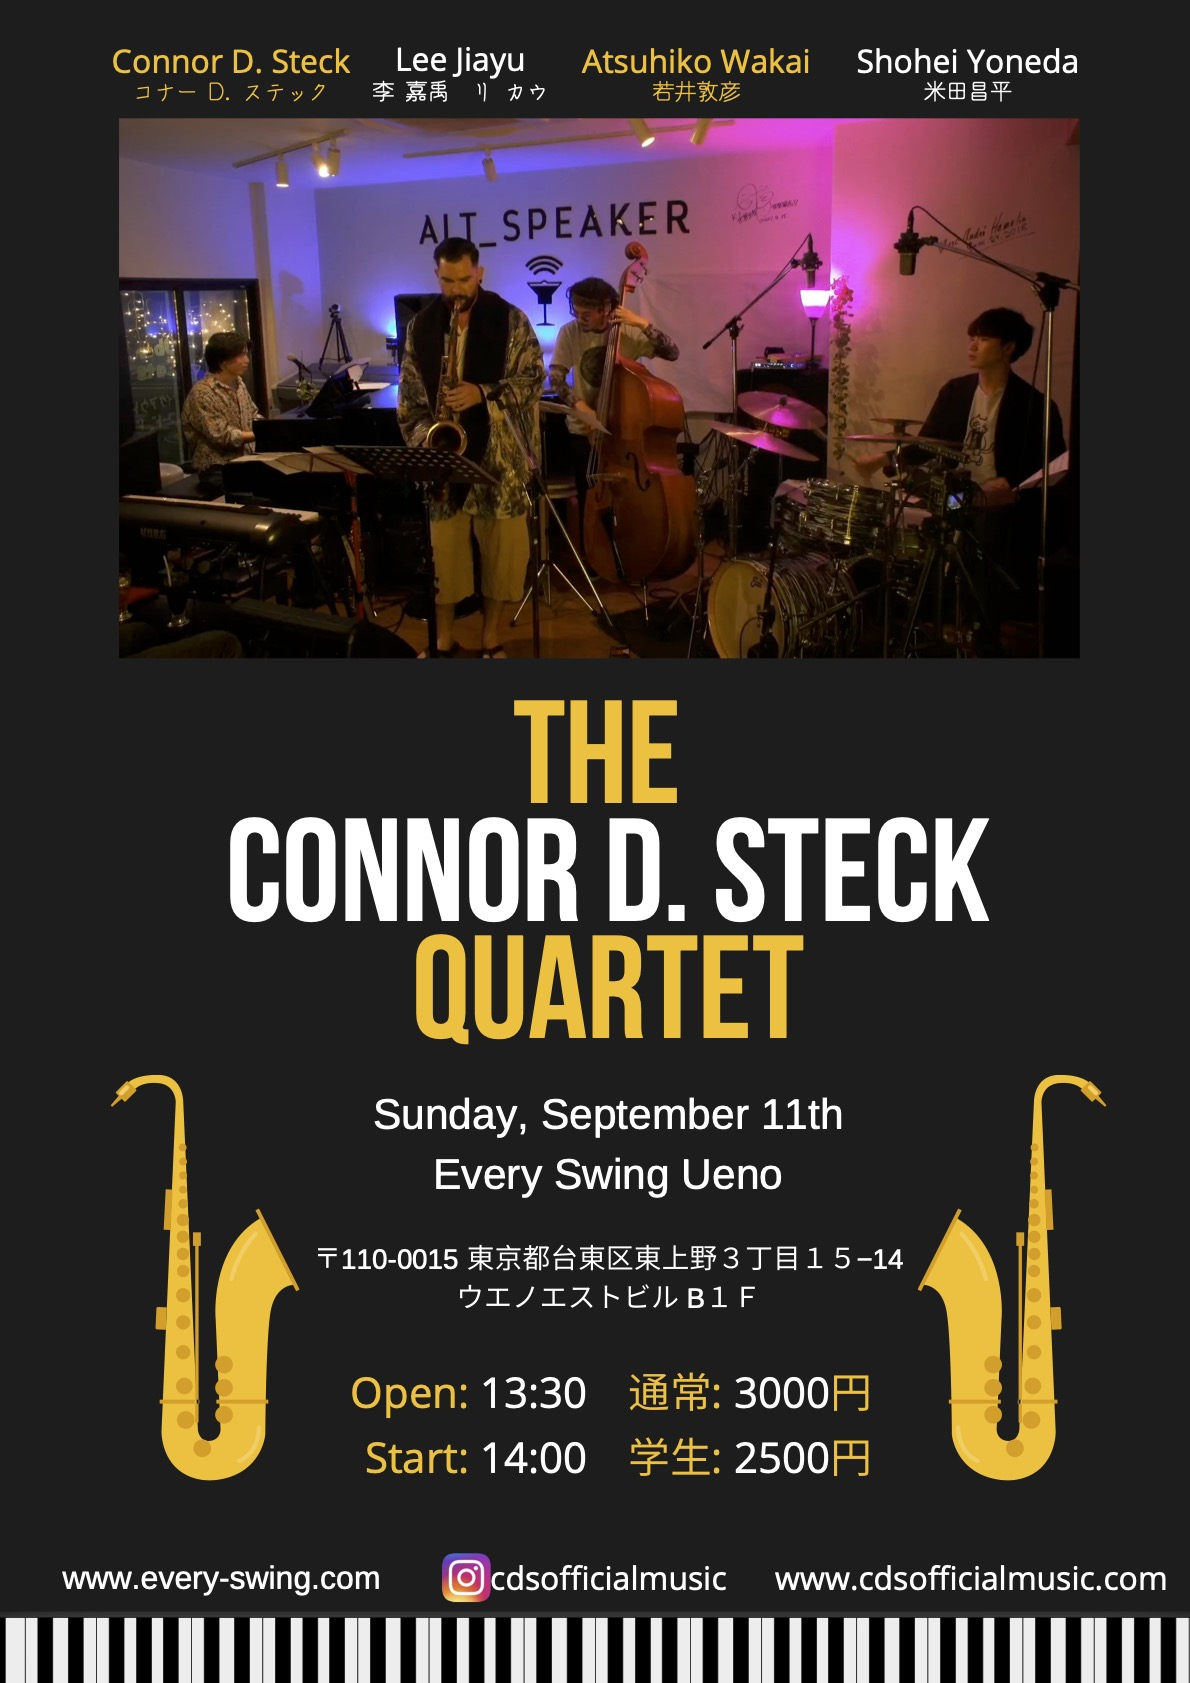
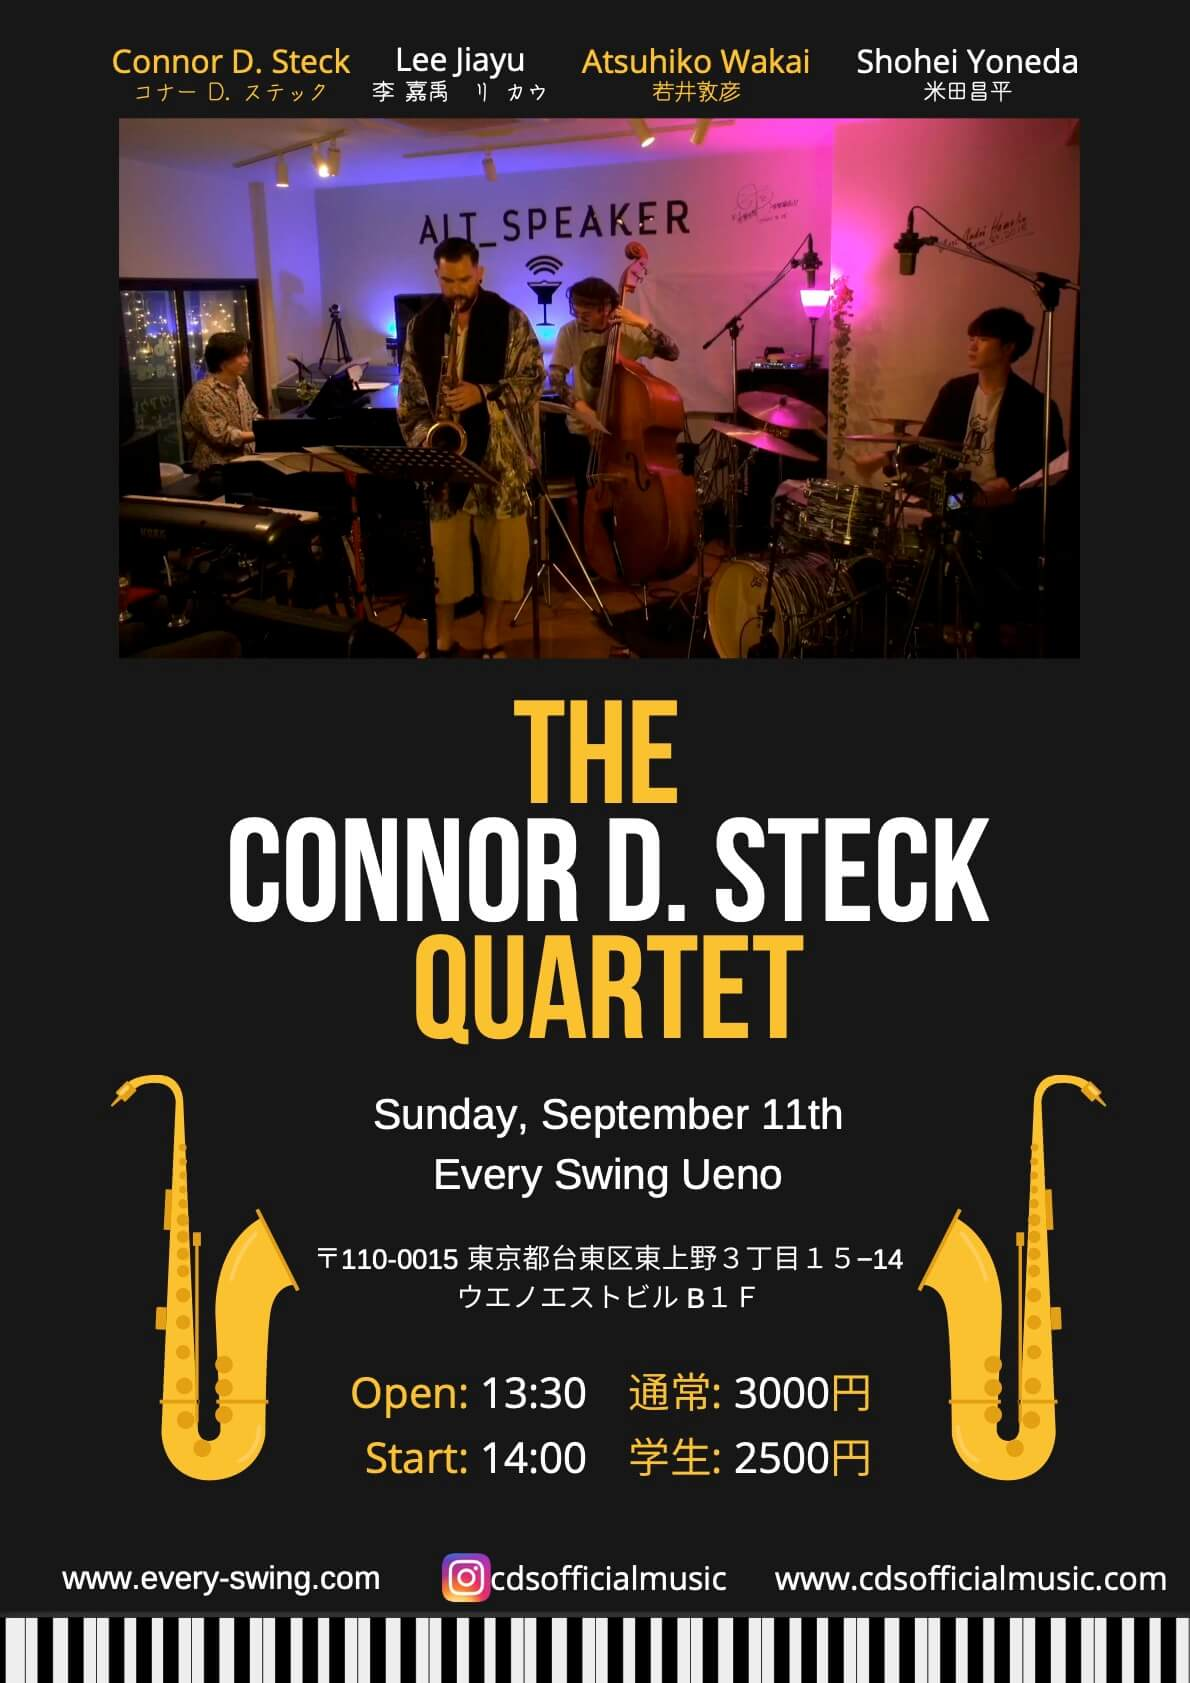
image resize

diff --git a/index.html b/index.html
@@ -115,7 +115,7 @@
         <div class="col-sm-10 col-md-6">
           <div class="card border-radius">
             <div class="card-body">
-              <img src="images/alt_speaker.jpg" class="img-fluid rounded" alt="poster for performance every swing" style="max-height: 400px;">
+              <img src="images/alt_speaker.png" class="img-fluid rounded" alt="poster for performance every swing" style="max-height: 400px;">
             </div>
           </div>
           <p style="color: rgb(255, 255,244);">Finished</p>

diff --git a/index.php b/index.php
@@ -9,7 +9,7 @@ use Zara4\API\ImageProcessing\ProcessedImage;
 
 
 $apiClient = new Client(getenv("ZARA_4_API_CLIENT_ID"), getenv("ZARA_4_API_CLIENT_SECRET"));
-$originalImage = new LocalImageRequest("images/bio pic.jpg", "images/alt_speaker.jpg", "images/bw_bio_pic.jpg", "images/jazz.jpg", "images/jazz2.jpg", "images/jazz3.jpg", "images/wide.jpg");
+$originalImage = new LocalImageRequest("images/bio pic.jpg", "images/alt_speaker.png", "images/bw_bio_pic.jpg", "images/jazz.jpg", "images/jazz2.jpg", "images/jazz3.jpg", "images/wide.jpg");
 $processedImage = $apiClient->processImage($originalImage);
 $apiClient->downloadProcessedImage($processedImage, "images/output.jpg");
 
